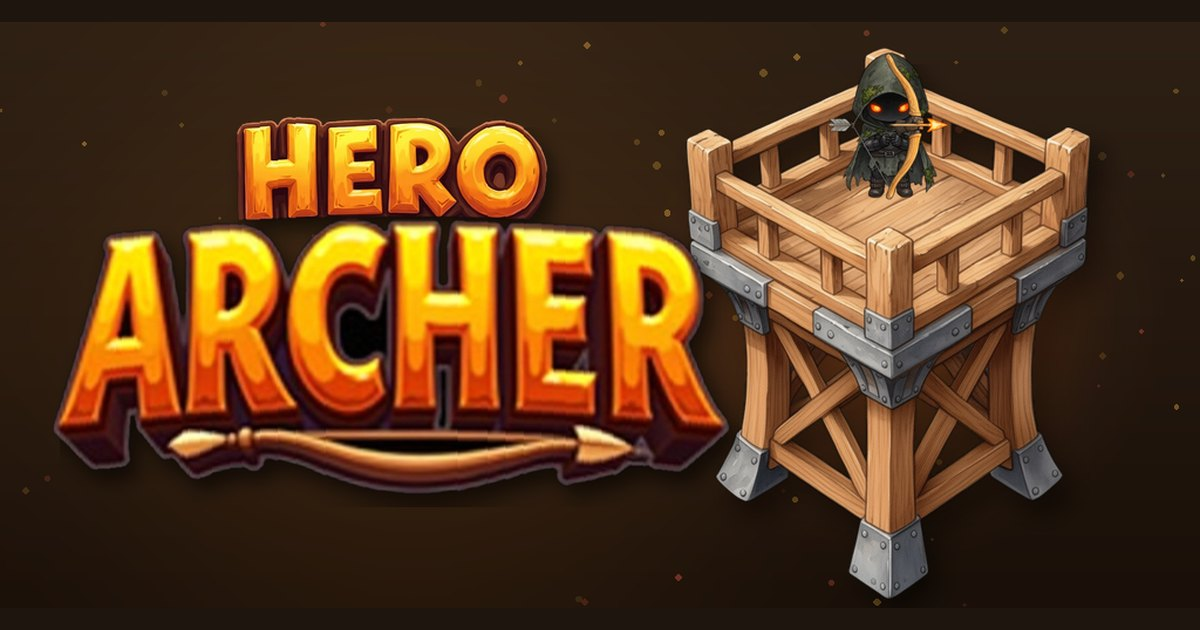
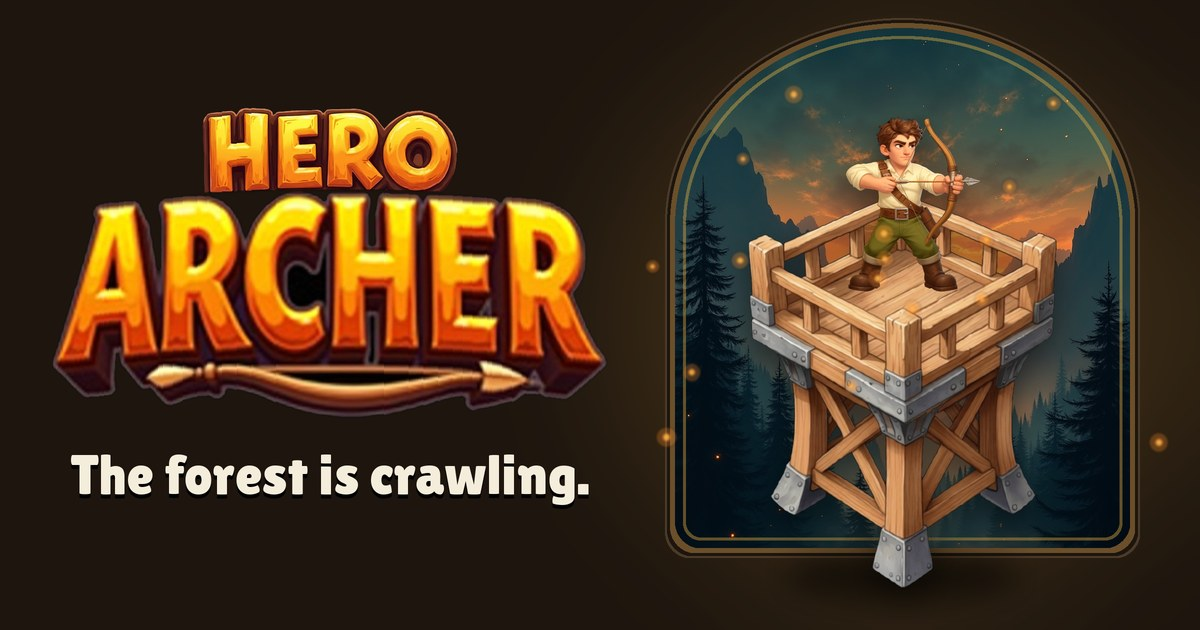
Link preview: the site's own hero instead of the old feature graphic
WhatsApp and the rest showed og-image.jpg, which was the store feature
graphic: the old hooded archer on a plain brown backdrop, padded with dark
bands, nothing like the page. It is now built from the hero's own pieces by
tools/build_assets.py: the logo and "The forest is crawling." beside the dusk
arch with the same tower and archer, the ground shadow and the embers. The
image link is stamped with its hash (stamp_assets.py) so caches fetch the
new one.

diff --git a/index.html b/index.html
@@ -18,10 +18,11 @@
   <meta property="og:url" content="https://heroarcher.com/">
   <meta property="og:title" content="Hero Archer: Idle Tower Defense">
   <meta property="og:description" content="The tower fights on its own and your archer never misses a shift. Free on Google Play.">
-  <meta property="og:image" content="https://heroarcher.com/og-image.jpg">
+  <meta property="og:image" content="https://heroarcher.com/og-image.jpg?v=b5c8bcb209">
   <meta property="og:image:width" content="1200">
   <meta property="og:image:height" content="630">
-  <meta property="og:image:alt" content="The Hero Archer logo beside the archer's wooden watchtower">
+  <meta property="og:image:alt" content="The Hero Archer logo and the line The forest is crawling, beside the archer on the watchtower at dusk">
+  <meta property="og:image:type" content="image/jpeg">
   <meta name="twitter:card" content="summary_large_image">
 
   <link rel="preload" href="assets/fonts/lilita-one.woff2" as="font" type="font/woff2" crossorigin>
@@ -36,7 +37,7 @@
     "name": "Hero Archer",
     "alternateName": "Hero Archer Tower Idle Defense",
     "url": "https://heroarcher.com/",
-    "image": "https://heroarcher.com/og-image.jpg",
+    "image": "https://heroarcher.com/og-image.jpg?v=b5c8bcb209",
     "description": "An idle tower defense game for Android with roguelike perks, boss fights and gear your archer wears.",
     "genre": ["Tower defense", "Idle", "Roguelike"],
     "gamePlatform": "Android",

diff --git a/tools/build_assets.py b/tools/build_assets.py
@@ -125,12 +125,100 @@ icon.resize((192, 192), Image.LANCZOS).save(os.path.join(SITE, "icon-192.png"), 
 icon.resize((180, 180), Image.LANCZOS).save(os.path.join(SITE, "apple-touch-icon.png"), optimize=True)
 icon.save(os.path.join(SITE, "favicon.ico"), sizes=[(16, 16), (32, 32), (48, 48)])
 
-# Link preview (Open Graph): the store feature graphic on the page colour.
-feature = Image.open(game("docs", "release", "store-assets", "feature-graphic-1024x500.png")).convert("RGB")
-feature = feature.resize((1200, round(500 * 1200 / 1024)), Image.LANCZOS)
-og = Image.new("RGB", (1200, 630), (29, 21, 14))
-og.paste(feature, (0, (630 - feature.height) // 2))
-og.save(os.path.join(SITE, "og-image.jpg"), "JPEG", quality=86, optimize=True, progressive=True)
+# Link preview (Open Graph, what WhatsApp and the rest show): the page's own
+# hero, so a shared link looks like the site. The logo and the page's first
+# line on the left; on the right the same dusk arch (the .arch rules in
+# site.css: elliptical top, 5px border, a gap, an outer ring, a thin gold inner
+# line) with the same tower and archer in front of it, the ground shadow and
+# the embers. It used to be the store feature graphic, whose old hooded
+# archer and plain brown backdrop matched nothing on the page.
+from PIL import ImageDraw, ImageFilter, ImageFont  # noqa: E402
+
+OW, OH, S = 1200, 630, 2  # drawn at 2x, then scaled down for clean curves
+BG, BORDER, PANEL_LIGHT = (29, 21, 14), (107, 79, 42), (76, 58, 41)
+og = Image.new("RGBA", (OW * S, OH * S), BG + (255,))
+
+
+def arch_mask(w, h, inset=0):
+    """The .arch shape: a half-ellipse top (radii 50% x 38%) over a box with 26px bottom corners."""
+    m = Image.new("L", (w, h), 0)
+    d = ImageDraw.Draw(m)
+    ry, r = 0.38 * h, 26 * S
+    d.ellipse([inset, inset, w - inset, 2 * ry - inset], fill=255)
+    d.rounded_rectangle([inset, ry, w - inset, h - inset], radius=max(1, r - inset), fill=255)
+    d.rectangle([inset, ry, w - inset, h - inset - r], fill=255)
+    return m
+
+
+# a warm glow behind the arch
+aw, ah = 455 * S, 520 * S
+ax, ay = OW * S - 70 * S - aw, 28 * S
+glow = Image.new("L", og.size, 0)
+ImageDraw.Draw(glow).ellipse([ax - 60 * S, ay + 20 * S, ax + aw + 60 * S, ay + ah + 40 * S], fill=70)
+glow = glow.filter(ImageFilter.GaussianBlur(70 * S))
+og.paste(Image.new("RGBA", og.size, (240, 180, 65, 255)), (0, 0), glow.point(lambda v: v * 0.55))
+
+# the frame: outer ring, page-colour gap, border, then the painting
+for grow, colour in [(10 * S, PANEL_LIGHT), (8 * S, BG), (5 * S, BORDER)]:
+    m = arch_mask(aw + 2 * grow, ah + 2 * grow)
+    og.paste(Image.new("RGBA", m.size, colour + (255,)), (ax - grow, ay - grow), m)
+pic = dusk.copy()
+scale = max(aw / pic.width, ah / pic.height)
+pic = pic.resize((round(pic.width * scale), round(pic.height * scale)), Image.LANCZOS)
+top = round((pic.height - ah) * 0.36)  # object-position: 50% 36%
+pic = pic.crop(((pic.width - aw) // 2, top, (pic.width - aw) // 2 + aw, top + ah))
+og.paste(pic.convert("RGBA"), (ax, ay), arch_mask(aw, ah))
+inner = arch_mask(aw, ah, inset=9 * S)
+line = inner.filter(ImageFilter.MaxFilter(5)).point(lambda v: 255 if v else 0)
+ring = Image.new("L", inner.size, 0)
+ring.paste(line, (0, 0))
+ring.paste(0, (0, 0), arch_mask(aw, ah, inset=11 * S))
+og.paste(Image.new("RGBA", ring.size, (240, 180, 65, 255)), (ax, ay), ring.point(lambda v: v * 0.4))
+
+# the ground shadow, the tower and the archer (the composite the hero uses)
+th = round(ah * 0.91)
+tw = round(canvas.width * th / canvas.height)
+tx, tyb = ax + (aw - tw) // 2, ay + ah + 40 * S
+shadow = Image.new("L", og.size, 0)
+ImageDraw.Draw(shadow).ellipse([tx + tw * 0.12, tyb - 34 * S, tx + tw * 0.88, tyb + 10 * S], fill=150)
+og.paste(Image.new("RGBA", og.size, (0, 0, 0, 255)), (0, 0), shadow.filter(ImageFilter.GaussianBlur(14 * S)))
+t = canvas.resize((tw, th), Image.LANCZOS)
+drop = Image.new("L", og.size, 0)
+drop.paste(t.split()[3], (tx, tyb - th + 12 * S))
+og.paste(Image.new("RGBA", og.size, (0, 0, 0, 255)), (0, 0), drop.filter(ImageFilter.GaussianBlur(14 * S)).point(lambda v: v * 0.5))
+og.alpha_composite(t, (tx, tyb - th))
+
+# embers rising round the arch, like the page's
+import random  # noqa: E402
+rnd = random.Random(11)
+glowy = Image.new("RGBA", og.size, (0, 0, 0, 0))
+gd = ImageDraw.Draw(glowy)
+for _ in range(16):
+    ex = rnd.uniform(ax - 30 * S, ax + aw + 30 * S)
+    ey = rnd.uniform(ay + 40 * S, ay + ah * 0.8)
+    r = rnd.uniform(2.2, 3.4) * S
+    gd.ellipse([ex - r * 3, ey - r * 3, ex + r * 3, ey + r * 3], fill=(255, 140, 40, 70))
+    gd.ellipse([ex - r, ey - r, ex + r, ey + r], fill=(255, 179, 71, 235))
+og.alpha_composite(glowy.filter(ImageFilter.GaussianBlur(1.2 * S)))
+
+# the logo and the page's first line
+lw = 560 * S
+lg = logo.resize((lw, round(logo.height * lw / logo.width)), Image.LANCZOS)
+tag_font = ImageFont.truetype(game("Assets", "Fonts", "LilitaOne-Regular.ttf"), 56 * S)
+tag = "The forest is crawling."
+tb = tag_font.getbbox(tag)
+block = lg.height + 18 * S + (tb[3] - tb[1])
+lx, ly = 50 * S, (OH * S - block) // 2 - 10 * S
+og.alpha_composite(lg, (lx, ly))
+tx0 = lx + (lw - (tb[2] - tb[0])) // 2 - tb[0]
+ty0 = ly + lg.height + 18 * S - tb[1]
+td = ImageDraw.Draw(og)
+td.text((tx0, ty0 + 4 * S), tag, font=tag_font, fill=(0, 0, 0, 140))
+td.text((tx0, ty0), tag, font=tag_font, fill=(245, 237, 220, 255))
+
+og = og.convert("RGB").resize((OW, OH), Image.LANCZOS)
+og.save(os.path.join(SITE, "og-image.jpg"), "JPEG", quality=88, optimize=True, progressive=True)
+print(f"  og-image.jpg  {OW}x{OH}  {os.path.getsize(os.path.join(SITE, 'og-image.jpg')) // 1024} KB")
 
 print("fonts")
 from fontTools import subset  # noqa: E402

diff --git a/tools/stamp_assets.py b/tools/stamp_assets.py
@@ -1,11 +1,13 @@
-"""Stamp the stylesheet and script links with a hash of their contents.
+"""Stamp the stylesheet, script and link-preview image with a hash of their contents.
 
     python tools/stamp_assets.py
 
 GitHub Pages lets browsers keep CSS and JS for 10 minutes, and the file names
 never change, so after a push a visitor can get the new page with the old
 styles and script. Every page links them as site.css?v=<hash>; run this after
-changing either file (before committing) and the link changes with the file.
+changing any of them (before committing) and the link changes with the file.
+The preview image is stamped for the same reason: WhatsApp, Facebook and the
+rest cache it by its address, so a new image under the old one is never seen.
 """
 import glob
 import hashlib
@@ -13,7 +15,9 @@ import os
 import re
 
 ROOT = os.path.abspath(os.path.join(os.path.dirname(os.path.abspath(__file__)), ".."))
-ASSETS = {"site.css": "assets/css/site.css", "site.js": "assets/js/site.js"}
+ASSETS = {"site.css": "assets/css/site.css", "site.js": "assets/js/site.js",
+          # link previews: WhatsApp and the rest cache the image by its address
+          "og-image.jpg": "og-image.jpg"}
 
 stamps = {}
 for name, path in ASSETS.items():

diff --git a/README.md b/README.md
@@ -39,7 +39,7 @@ fights alone", "Waves and bosses", "The chapters", "The loop") are the
 tutorial's own card titles. Keep it that way: specific, in the game's voice,
 and no em dashes.
 
-## After changing site.css or site.js
+## After changing site.css, site.js or og-image.jpg
 
 ```
 python tools/stamp_assets.py
@@ -47,7 +47,9 @@ python tools/stamp_assets.py
 
 Every page links them as `site.css?v=<hash>` and `site.js?v=<hash>`. GitHub
 Pages lets browsers keep them for 10 minutes, so without a new stamp a visitor
-can get the new page with the old styles and script. Run it before committing.
+can get the new page with the old styles and script. The link-preview image
+is stamped too: WhatsApp and the rest cache it by its address. Run it before
+committing.
 
 ## Rebuilding the art
 
